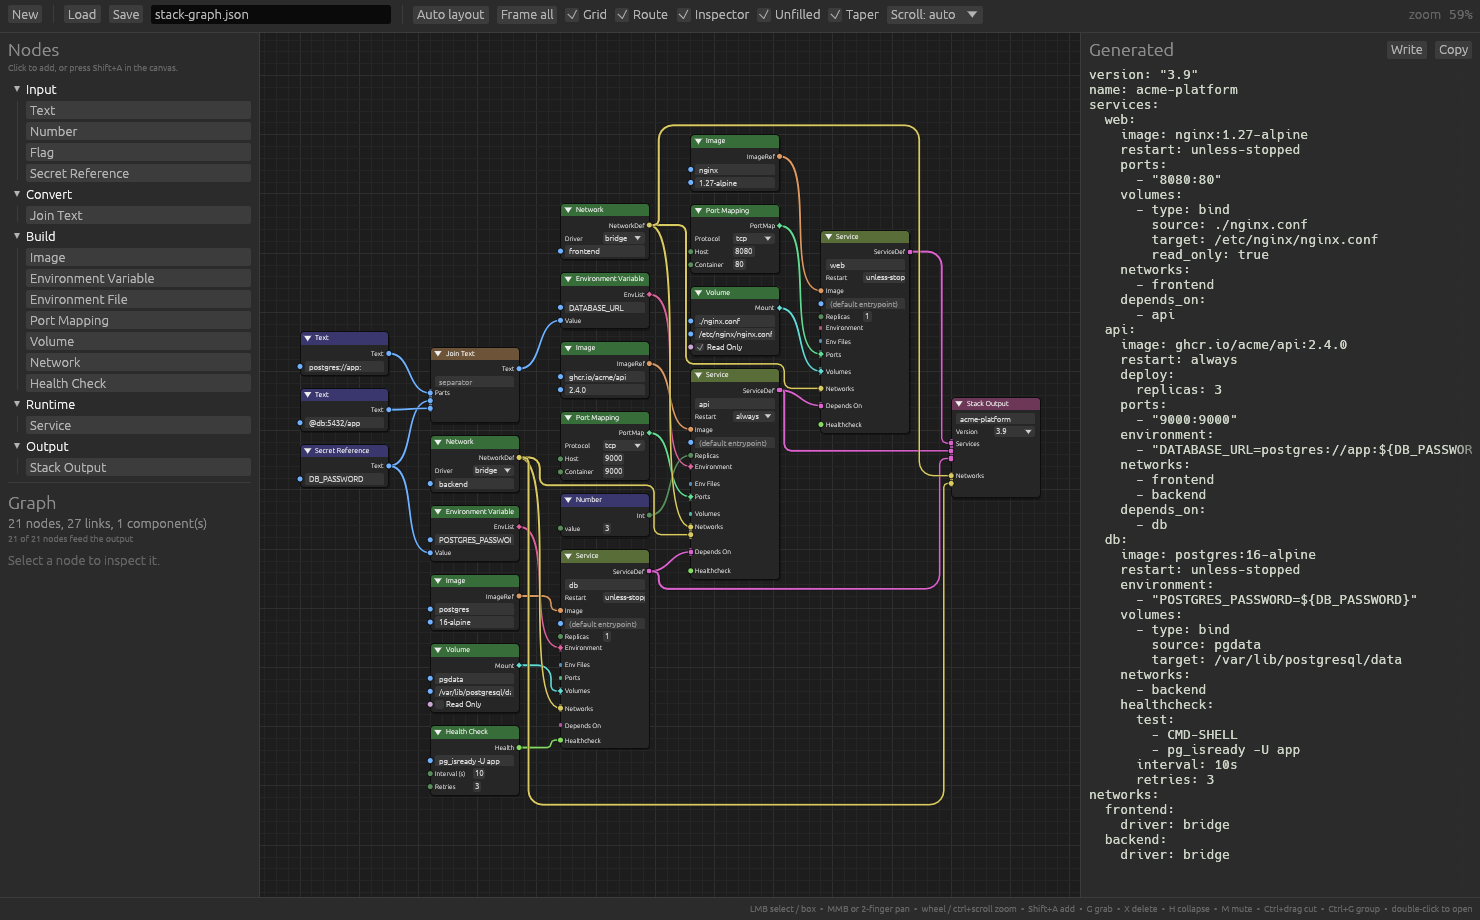
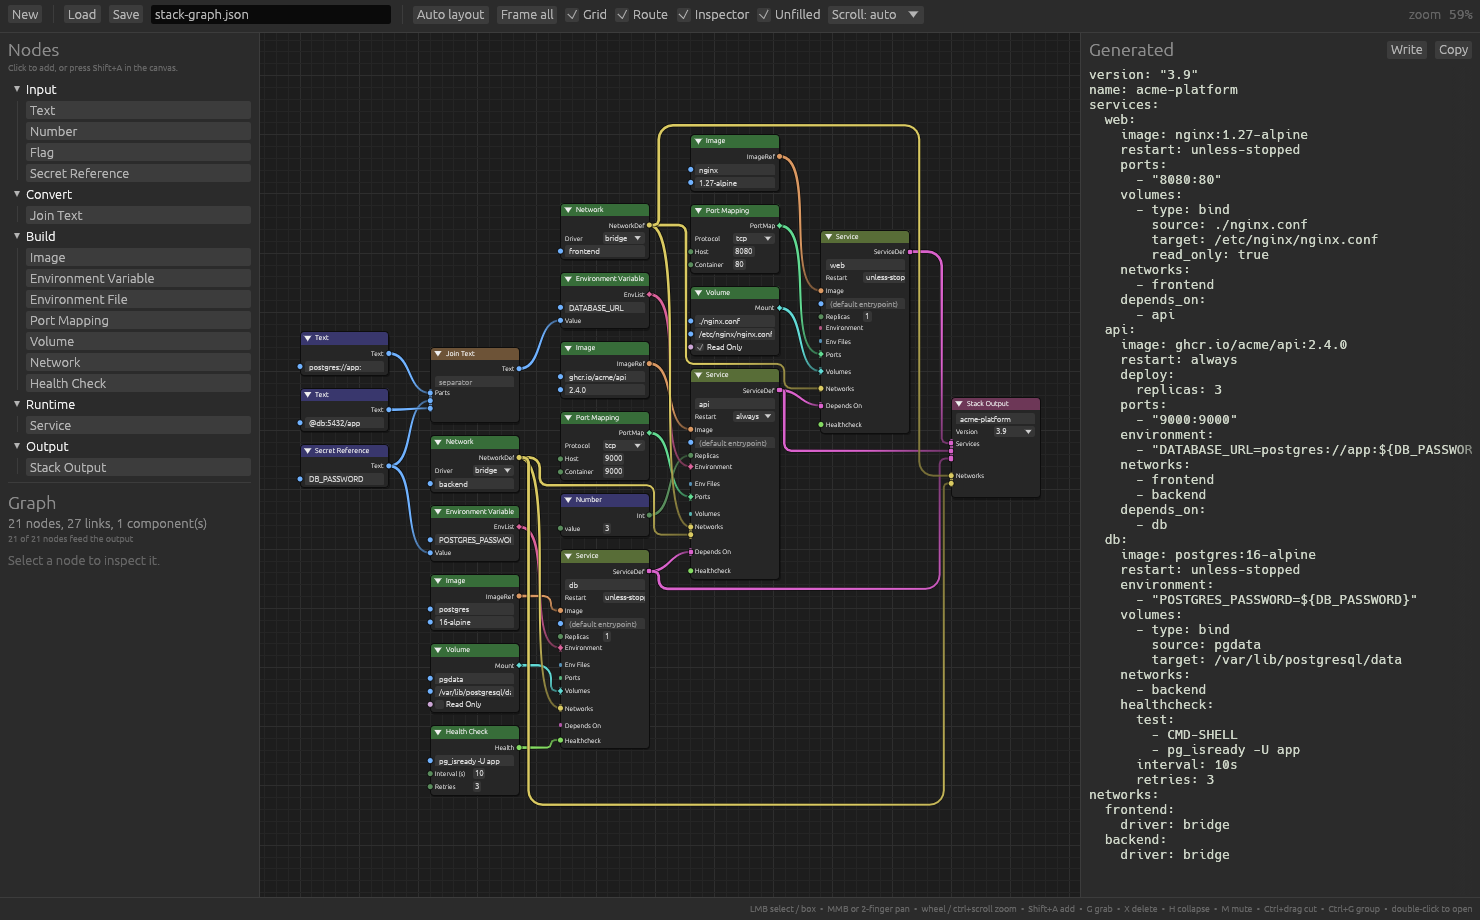
Make the taper worth having, and stop offering to turn it off
Two things from looking at it.

It was barely visible, and the reason was the feather. A wire is two pixels
across; a 1px soft edge each side is most of what you see, and it does not
taper, so a core going from 1.2 to 0.5 pixels showed up as a wire going from
3.2 to 2.5. The fix is to stop taking the taper out of the width and start
swinging it either side: the near end is fattened as much as the far end is
thinned, which doubles the contrast and leaves `wire_width` meaning the
average, as it did. And below a pixel the core now stops shrinking and starts
fading, because geometry too small to land on a pixel turns thin into blurry,
which is the opposite of the point.

And the box that turned it off is gone. There is no second rendering path
behind it — the taper is one multiplication inside one closure, so nothing
branches and nothing can rot — which makes the box the only real cost: a
widget and a remembered value, kept so that a thing with one right answer
could be given the wrong one. `wire_taper` stays as a number, in the way
`wire_width` is a number: a thinner wire than this draws may want rather
less, and nobody needs none.

Every screenshot retaken, for the taper and for the toolbar.

diff --git a/nodez/src/ui/draw.rs b/nodez/src/ui/draw.rs
@@ -127,8 +127,14 @@ pub(crate) fn paint_wire(
     // Widest where it leaves the output, narrowest where it arrives, which is
     // the whole point: which way a wire flows can be seen without following
     // it to either end.
+    //
+    // The swing is either side of the width asked for rather than all of it
+    // below: a wire is two pixels across and taking a fraction off that is a
+    // difference nobody can see. Fattening the near end as much as the far
+    // end is thinned buys twice the contrast and leaves the graph weighing
+    // the same, since the width asked for is still the average.
     let taper = style.wire_taper.clamp(0.0, 1.0);
-    let narrowing = move |full: f32| move |along: f32| full * (1.0 - taper * along) * 0.5;
+    let narrowing = move |full: f32| move |along: f32| full * (1.0 + taper - 2.0 * taper * along);
 
     // A dark backing ribbon reads as an outline against both nodes and
     // canvas. One ribbon for the whole wire rather than one per curve, so a
@@ -166,12 +172,12 @@ fn flatten(path: &[[Pos2; 4]]) -> Vec<Pos2> {
 /// at full color, and a band either side fading to nothing, which is the same
 /// way egui's own tessellator keeps an edge from looking like stairs.
 ///
-/// `half` is given how far along the wire a point is, from 0 at the output to
-/// 1 at the input, and answers with half the width to draw there.
+/// `width` is given how far along the wire a point is, from 0 at the output
+/// to 1 at the input, and answers with how wide to draw it there.
 fn paint_ribbon(
     painter: &Painter,
     points: &[Pos2],
-    half: impl Fn(f32) -> f32,
+    width: impl Fn(f32) -> f32,
     color: impl Fn(Pos2) -> Color32,
 ) {
     /// How wide the soft edge is. One pixel, the same as egui's own.
@@ -208,8 +214,13 @@ fn paint_ribbon(
         };
         let out = vec2(-heading.y, heading.x);
 
-        let h = half(along[i] / total).max(0.0);
-        let shade = color(*p);
+        // Thinner than a pixel is drawn as a pixel that is barely there,
+        // rather than as geometry too small to land on one. Without this the
+        // thin end of a wire stops getting thinner and starts getting
+        // blurrier, which is the opposite of the point.
+        let w = width(along[i] / total).max(0.0);
+        let (h, fade) = if w < 1.0 { (0.5, w) } else { (w * 0.5, 1.0) };
+        let shade = color(*p).gamma_multiply(fade);
         let base = mesh.vertices.len() as u32;
         // Premultiplied, so a transparent edge is transparent black and
         // cannot leave a halo of the wire's own color.

diff --git a/nodez/src/app.rs b/nodez/src/app.rs
@@ -116,8 +116,6 @@ pub struct EditorApp<N: NodeData = DynNode> {
     pending_group: Wanted,
     /// Where reusable groups are kept, if anywhere.
     groups_dir: Option<String>,
-    /// How much the wires tapered by before the box was unticked.
-    taper: f32,
 }
 
 /// What the editor asked to do with a group.
@@ -169,7 +167,6 @@ impl<N: NodeData> EditorApp<N> {
             inside: Vec::new(),
             pending_group: Wanted::Nothing,
             groups_dir: None,
-            taper: EditorStyle::blender_dark().wire_taper,
             preview_extension: "out".to_owned(),
         }
     }
@@ -489,21 +486,6 @@ impl<N: NodeData> EditorApp<N> {
                     "Unfilled",
                 )
                 .on_hover_text("Mark inputs that have to be wired and are not");
-                // A float, not a flag, so the box remembers what it was set
-                // to rather than forcing everyone back to the default.
-                let mut tapered = self.editor.style.wire_taper > 0.0;
-                if ui
-                    .checkbox(&mut tapered, "Taper")
-                    .on_hover_text("Narrow each wire towards the input it feeds")
-                    .changed()
-                {
-                    self.editor.style.wire_taper = if tapered {
-                        self.taper.max(0.1)
-                    } else {
-                        self.taper = self.editor.style.wire_taper;
-                        0.0
-                    };
-                }
 
                 egui::ComboBox::from_id_salt("nodez-scroll-mode")
                     .width(96.0)

diff --git a/nodez/src/ui/style.rs b/nodez/src/ui/style.rs
@@ -80,14 +80,19 @@ pub struct EditorStyle {
     /// Dark backing line drawn under each wire, as Blender does.
     pub wire_outline: Color32,
     pub wire_outline_extra_width: f32,
-    /// How much of its width a wire gives up on the way to the input it
-    /// feeds, as a fraction.
+    /// How far a wire's width swings either side of [`Self::wire_width`] on
+    /// its way to the input it feeds, as a fraction.
     ///
-    /// Zero draws a wire of one width, which says nothing about which way
-    /// anything flows and is what this used to do. One narrows it to a point
-    /// where it arrives. In between, the wire is plainly wider where it
-    /// leaves an output than where it meets an input, and a graph can be read
-    /// without following any wire to its end.
+    /// Either side, not all of it below: a wire is two pixels across, and
+    /// taking a fraction off two pixels is a difference nobody can see. So
+    /// the near end is fattened as much as the far end is thinned, which buys
+    /// twice the contrast and leaves `wire_width` meaning what it did, the
+    /// average.
+    ///
+    /// An amount rather than a switch, in the way `wire_width` is: one goes
+    /// from double width down to nothing, and a thinner wire than this crate
+    /// draws by default may want rather less. Zero leaves a wire of one
+    /// width, which says nothing about which way anything flows.
     pub wire_taper: f32,
     /// Horizontal pull of the bezier control points, as a fraction of the
     /// horizontal distance between the two sockets.

diff --git a/CHANGELOG.md b/CHANGELOG.md
@@ -11,9 +11,11 @@ and the project follows [Semantic Versioning](https://semver.org/spec/v2.0.0.htm
 ### Added
 
 - Wires narrow towards the input they feed, so which way one flows can be seen
-  without following it. `EditorStyle::wire_taper` says how much width a wire
-  gives up on the way — 0 for one width throughout, 1 to narrow to a point,
-  0.6 by default — and the demo has a Taper box for it.
+  without following it. `EditorStyle::wire_taper` says how far a wire's width
+  swings either side of `wire_width` on the way — either side, because a wire
+  is two pixels across and taking a fraction off two pixels is a difference
+  nobody can see. An amount rather than a switch, the way `wire_width` is,
+  defaulting to 0.6.
 
 - A `futuresdr` example: the same kind of flowgraph as `gnuradio`, emitting a
   Rust `main` against FutureSDR 0.8 instead of a Python top block. The pair is
@@ -68,10 +70,9 @@ and the project follows [Semantic Versioning](https://semver.org/spec/v2.0.0.htm
 ### Changed
 
 - A wire is drawn as a mesh rather than a stroke, because a stroke in egui has
-  one width for its whole length and a tapered wire does not. At
-  `wire_taper = 0` the result is the same uniform wire, but not the same
-  pixels: the anti-aliasing along a wire's edge is now this crate's rather
-  than egui's.
+  one width for its whole length and a tapered wire does not. The
+  anti-aliasing along a wire's edge is this crate's now rather than egui's, so
+  a wire is a pixel or two different even where its width has not changed.
 - Whether a wire is routed at all is settled at the clearance it was asked to
   keep, rather than at the tightest one on offer. A reduced clearance is how a
   path is *found* when there is no other; it was also, by accident, a reason

diff --git a/README.md b/README.md
@@ -385,16 +385,20 @@ never while one is in flight.
 ## Which way a wire flows
 
 A wire narrows on its way to the input it feeds, so which end is which can be
-read without following it. `EditorStyle::wire_taper` is how much of its width
-it gives up — 0 for a wire of one width, 1 to narrow to a point, and 0.6 by
-default. The demo's Taper box flips it live.
+read without following it. `EditorStyle::wire_taper` is how far its width
+swings either side of `wire_width` — an amount rather than a switch, the way
+`wire_width` is, and 0.6 by default.
+
+Either side, not all of it below. A wire is two pixels across and taking a
+fraction off two pixels is a difference nobody can see, so the near end is
+fattened as much as the far end is thinned. That buys twice the contrast and
+leaves `wire_width` meaning the average, as it did.
 
 egui strokes one width at a time, so a wire that changes width cannot be a
 stroke: each one is a mesh of three quads per step, a core at full color with
 a band either side fading out, which is how egui's own tessellator keeps an
-edge from looking like stairs. At `wire_taper = 0` that draws the same
-uniform wire as before, though not to the same pixels — the anti-aliasing is
-now this crate's rather than egui's.
+edge from looking like stairs. Below a pixel the core stops shrinking and
+starts fading instead, or the thin end would turn from thin into blurry.
 
 The color gradient from the output's type to the input's is still there, so
 direction is said twice.
